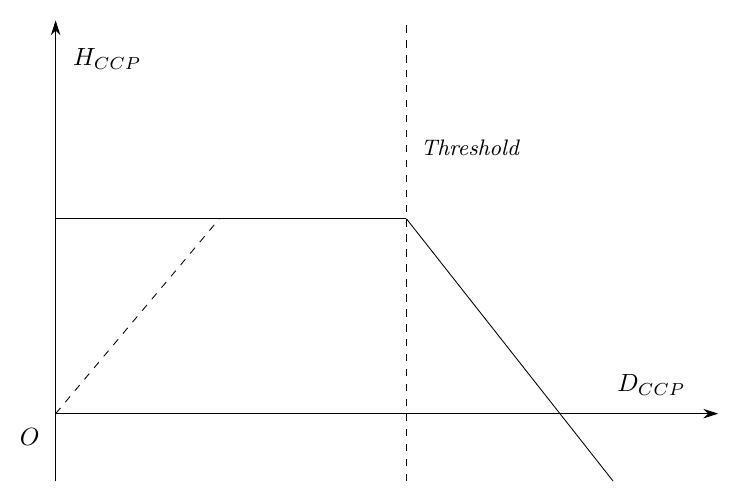
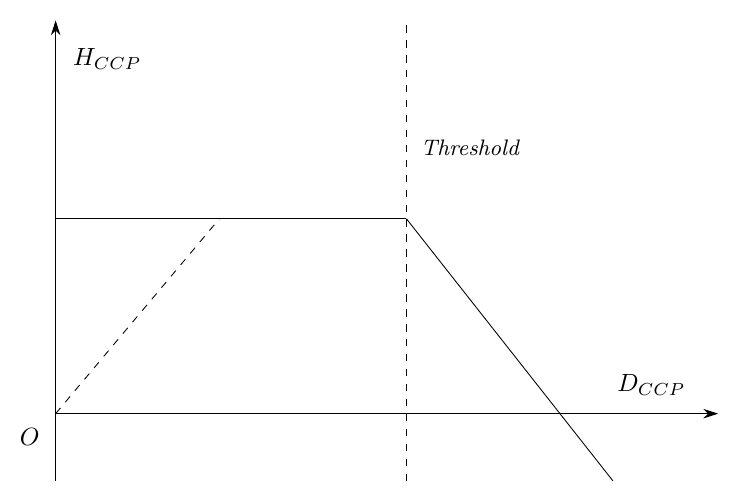
Add files via upload

diff --git a/02-the-manufactured-citizens.md b/02-the-manufactured-citizens.md
@@ -10,9 +10,9 @@ The proposition that “the harder you work, the luckier you become” presents 
 
 Indeed, it is striking to consider what these videos could have included but generally did not. They could have presented empirical evidence concerning the relationship between anxiety and academic performance. They could have explained that excessive stress can impair concentration, working memory, decision-making, and executive functioning. They could have shown students that productivity is not necessarily a monotonically increasing function of psychological pressure. In graphical terms, one might reasonably represent the relationship between anxiety and effective performance as an inverted-U-shaped curve: insufficient arousal may produce low engagement, while moderate levels can facilitate concentration, but excessive anxiety can eventually reduce effective performance (Figure Figure: Execution Performance vs. Anxiety).
 
-<figure>
-<p><strong>Table: Execution Performance vs. Anxiety</strong></p>
-</figure>
+![Execution Performance vs. Anxiety](execution-vs-anxiety.png)
+
+*Figure: Execution Performance vs. Anxiety*
 
 Yet that is not the message these videos were designed to communicate. Their function was not scientific explanation. Their function was emotional mobilization. This distinction matters because emotional mobilization can be extremely effective even when the proposition being communicated is empirically weak. A statement does not become scientifically justified merely because it succeeds in making an adolescent study for another three hours. Indeed, from the perspective of educational responsibility, effectiveness cannot be defined exclusively by whether the desired behavior is successfully produced. The more important question is what psychological and normative mechanism is being used to produce it. In my view, a system that attempts to generate academic progress primarily through fear, guilt, anxiety, and exaggerated promises is adopting an extraordinarily narrow conception of education. It treats the student’s psychological state as an instrument to be manipulated rather than as an aspect of the student’s well-being that education itself ought to protect.
 

diff --git a/05-divergent-lives-convergent-outcomes.md b/05-divergent-lives-convergent-outcomes.md
@@ -2,11 +2,9 @@
 
 At this point in the argument, we can finally connect the alienating effects of the educational system to the political emotions and nationalist values discussed in Part I. In Section 2.1.2, I described how the educational system can systematically cultivate individuals who are highly responsive to political mobilization while possessing a weakened capacity for independent judgment. But that account describes only one possible trajectory. It does not yet show what happens to the rest of the population. If one has lived inside Chinese society while spending substantial time moving between the Simplified Chinese Internet and the Chinese-language Internet beyond it, a broader pattern begins to emerge. The individuals encountered within these different environments are obviously not identical. They differ in education, social position, political awareness, ambition, temperament, access to information, and willingness to confront political questions. Yet these differences do not make the system unintelligible. On the contrary, once these differences are placed alongside the institutional conditions that shape them, a recognizable pattern begins to appear. I have tried to represent that pattern in Figure the tree diagram referenced in the source.
 
-<div class="sidewaysfigure">
+![Natural Selection Shaped by the Chinese Educational Model](tree-diagram.png)
 
-**Table: Natural Selection Shaped by the Chinese Educational Model**
-
-</div>
+*Figure: Natural Selection Shaped by the Chinese Educational Model*
 
 The figure requires some explanation, because without it the branches can easily be misunderstood. It is not intended as a rigid taxonomy of Chinese people, nor does it suggest that every individual must pass through a fixed sequence of stages. It is better understood as a map of possible trajectories: different paths that become more or less likely when individual differences interact with the institutional environment in which people are educated and socialized. At this point, I need to introduce one concept that will become important for interpreting the figure: Political Intelligence.
 

diff --git a/01-the-inconsistency-of-morality.md b/01-the-inconsistency-of-morality.md
@@ -20,7 +20,7 @@ $$H_{JPN} = nD_{JPN}, (n>0)$$
 
 When plotted on a Cartesian coordinate system, this relationship is simply a linear function (Figure the following figure).
 
-![The Japanese Militarism](../../../assets/japanese-militarism.png)
+![The Japanese Militarism](japanese-militarism.png)
 
 *Figure: The Japanese Militarism*
 
@@ -28,7 +28,7 @@ Within this evaluative framework, the greater the number of people killed by Imp
 
 Taken in isolation, such an explanation appears internally coherent. Yet genuine moral principles cannot be identified merely by observing how individuals respond within a single context. Rather, they are revealed by the consistency with which those same evaluative standards are applied across different contexts. If an alleged moral principle is abandoned whenever the surrounding circumstances change, then it is difficult to regard that principle as the product of autonomous moral conviction. Instead, it is more plausibly understood as an adaptive response shaped by external circumstances rather than a value freely chosen and consistently upheld. A simple comparison is sufficient to expose this inconsistency (Figure the following figure).
 
-![The Chinese Communist Party](../../../assets/chinese-communist-party.png)
+![The Chinese Communist Party](chinese-communist-party.png)
 
 *Figure: The Chinese Communist Party*
 
